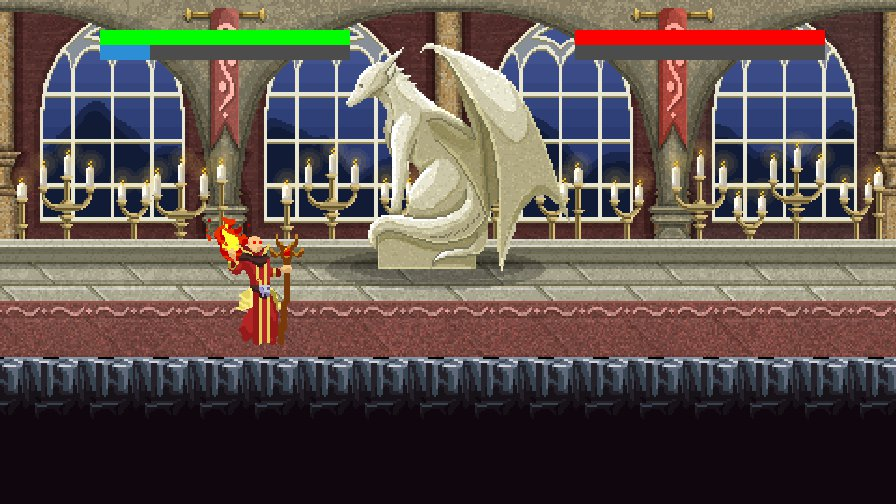
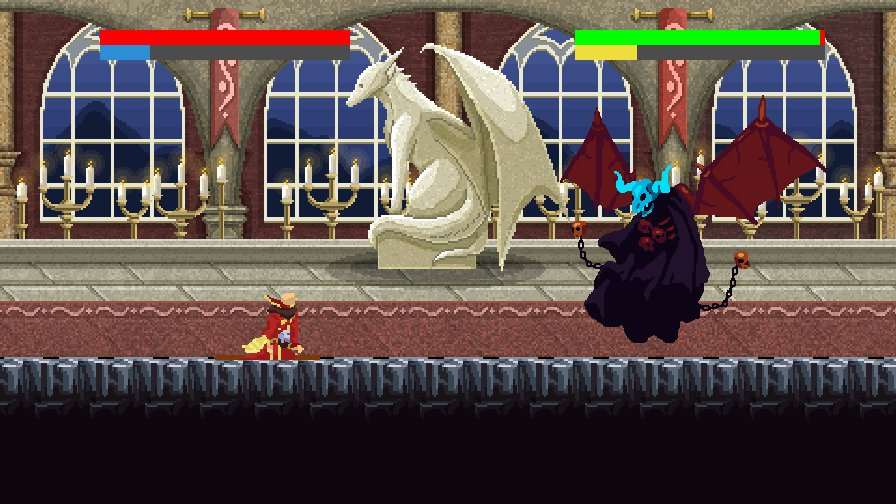
Update Alectrona skill 1

diff --git a/objek.py b/objek.py
@@ -28,6 +28,9 @@ class Makhluk(ABC):
             self.onground = False
 
     def update(self, enemy):
+        if self.tipe == 'Hero':
+            if self.skilled:
+                self.skill_rect.x += 10
         if self.hp <= 0:
             self.death = True
         if enemy.hp <= 0:
@@ -38,8 +41,16 @@ class Makhluk(ABC):
             self.frame = 0
             self.prev_action = self.action
         if pygame.time.get_ticks() - self.update_time > 90:
-            self.frame = (self.frame + 1) % \
-                len(self.animation[self.action])
+            if self.tipe == 'Hero':
+                if self.skilled:
+                    self.frame = (self.frame + 1) % len(self.skill_projectile)
+                    if self.frame == len(self.skill_projectile) - 2:
+                        self.action = 0
+                else:
+                    self.frame = (self.frame + 1) % \
+                        len(self.animation[self.action])
+            else:
+                self.frame = (self.frame + 1) % len(self.animation[self.action])
             self.update_time = pygame.time.get_ticks()
             if self.attacking:
                 if self.frame == len(self.animation[self.action]) - 1:
@@ -71,10 +82,10 @@ class Makhluk(ABC):
 
 # Parent Class
 class Hero(Makhluk):
-    def __init__(self, nama, hp, damage, energi=0):
+    def __init__(self, nama, hp, damage, energi=4):
         super().__init__(nama)
         self.__hp = hp
-        self.__damage = 13123123
+        self.__damage = 200
         self.__energi = energi
         self.tipe = 'Hero'
         self.turn = 0
@@ -107,7 +118,15 @@ class Hero(Makhluk):
     def skill1(self):
         pass
 
-    # Famage Getter
+    def projectileCollide(self, enemy):
+        if self.skill_rect.x >= enemy.rect.x + 80:
+            self.finish = True
+            enemy.finish = False
+            self.skilled = False
+            self.skill_rect.x = 220
+            enemy - (self.damage + self.damage * 1.30)
+
+    # Damage Getter
     @property
     def damage(self):
         return self.__damage
@@ -139,7 +158,7 @@ class Monster(Makhluk):
     def __init__(self, nama, hp, damage):
         super().__init__(nama)
         self.__hp = hp
-        self.__damage = 12312312
+        self.__damage = damage
         self.__buffmeter = 0
         self.finish = True
         self.tipe = 'Monster'

diff --git a/karakter.py b/karakter.py
@@ -10,11 +10,15 @@ class Alectrona(Hero, Ranged):
         Hero.__init__(self, nama, hp, damage)
         Ranged.__init__(self)
         self.animation = [[]]
+        self.skill_projectile = []
         self.setAnimation()
         self.rect = self.animation[0][0].get_rect()
+        self.skill_rect = self.skill_projectile[0].get_rect()
+        self.skill_rect.x = 200
+        self.skill_rect.y = 220
         self.dead_img = self.animation[4][4]
         self.rect.x = 180
-        self.rect.y = -100
+        self.rect.y = 0
 
     def setAnimation(self):
         idle = spritesheet.Spritesheet(os.path.join(
@@ -64,11 +68,19 @@ class Alectrona(Hero, Ranged):
             image = image.subsurface((90, 0), (100, 160))
             image = pygame.transform.scale(image, (140, 200))
             self.animation[4].append(image)
+        skill = spritesheet.Spritesheet(os.path.join(
+            assetModule.alectrona_img, 'projectile.png'))
+        for i in range(8):
+            rect = ((i*96, 0), (96, 112))
+            image = skill.image_at(rect)
+            image = pygame.transform.flip(image, True, False)
+            self.skill_projectile.append(image)
 
     def skill1(self):
         self.energi = 2
         self.action = 3
         self.skilled = True
+        self.turn += 1
 
 
 class Nipalto(Hero, Melee):

diff --git a/main.py b/main.py
@@ -100,6 +100,8 @@ def updateScreen(arena):
                 WINDOW.blit(heroes.dead_img, (180, 165))
             elif heroes.nama == 'Nipalto':
                 WINDOW.blit(heroes.dead_img, (180, 242))
+    if heroes.skilled:
+        WINDOW.blit(heroes.skill_projectile[heroes.frame], (heroes.skill_rect))
 
 # Main Loop
 def mainLoop(arena):
@@ -162,6 +164,8 @@ def mainLoop(arena):
             heroes.move(monster)
         if monster.move_l or monster.move_r:
             monster.move(heroes)
+        if heroes.skilled:
+            heroes.projectileCollide(monster)
         
         heroes.update(monster)
         monster.update(heroes)
